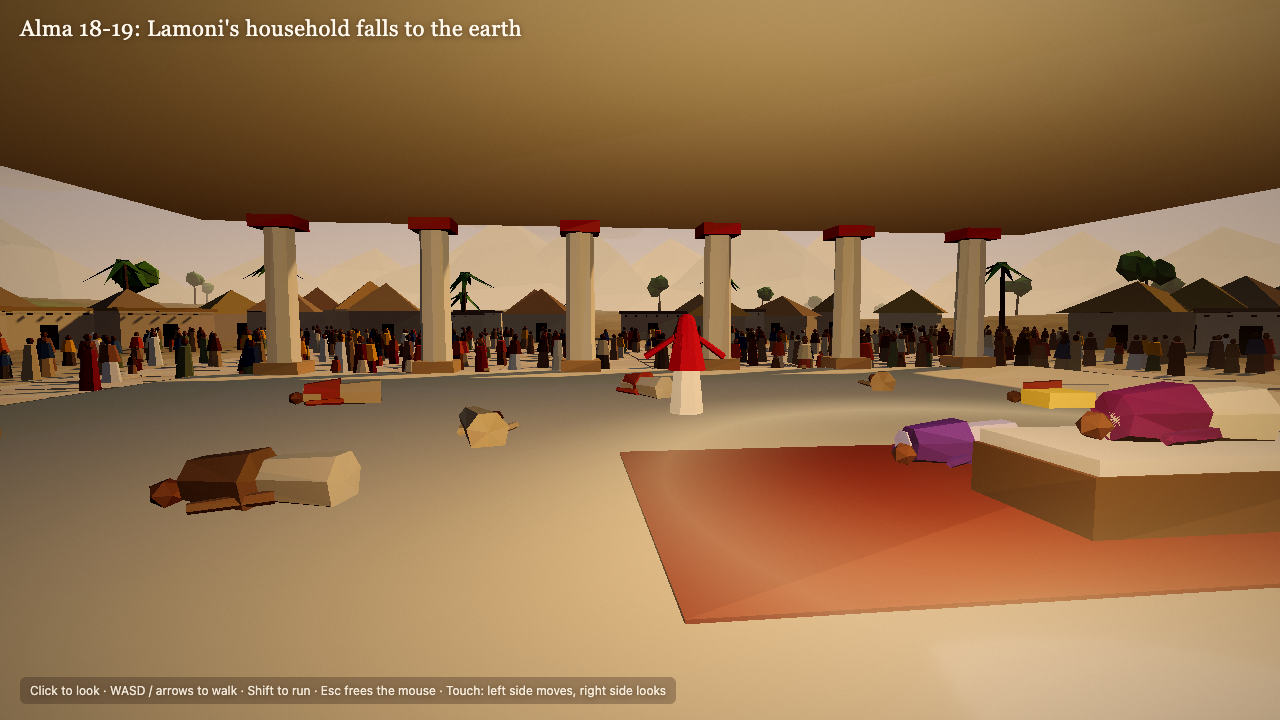
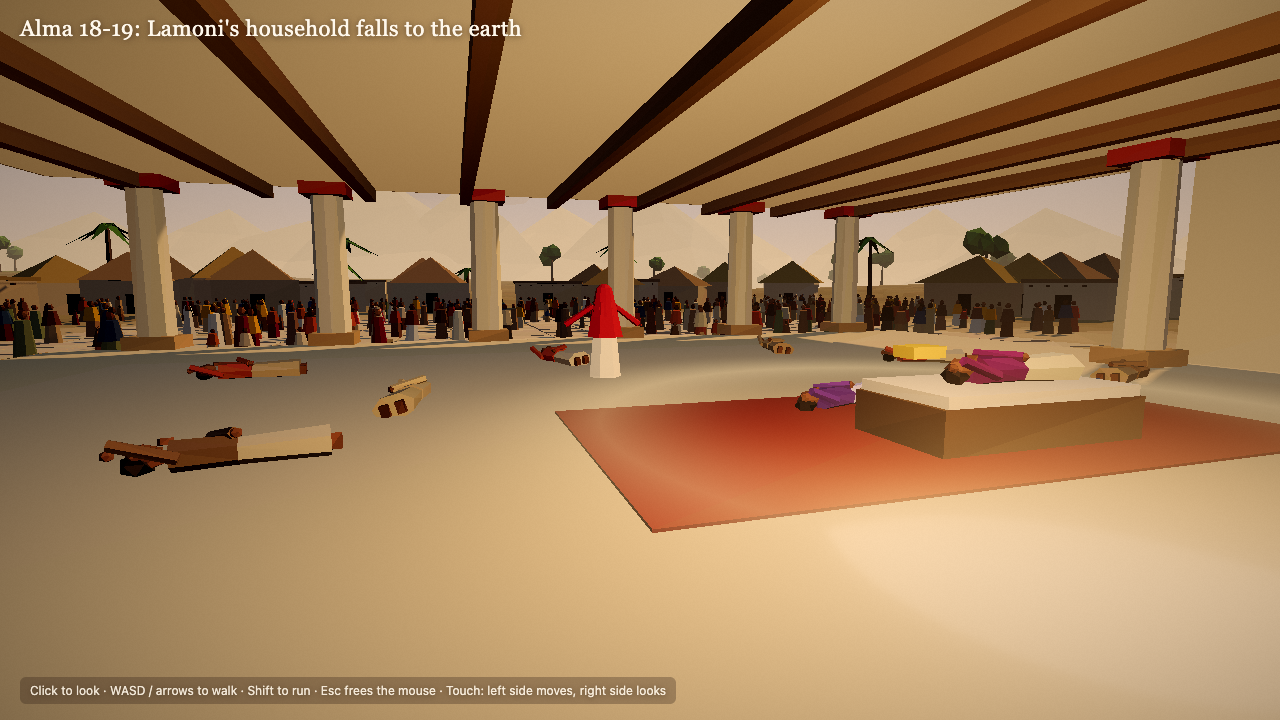
feat: polish lowpoly scenes bom-19 to bom-24

diff --git a/styles/lowpoly/scenes/lib/bom-19-kit.js b/styles/lowpoly/scenes/lib/bom-19-kit.js
@@ -33,23 +33,24 @@ function box(ctx, w, h, d, position, rot, color, { tilt = [0, 0], collide = fals
   if (collide) ctx.colliders.add({ x: position[0], z: position[2], w, d, rot, bottom: position[1] - h / 2, top: position[1] + h / 2 });
 }
 
-// A person lying on the ground, head toward local +z.
-export function sleeper(ctx, x, z, rot, { robe = '#7a4e36', skin = '#8a5a3c', mantle, scale = 1, y, side = 0 } = {}) {
-  const base = y ?? ctx.heightAt(x, z);
-  const at = frame(x, z, rot);
+// A person lying on the back, head toward local +z: robed legs with feet up, torso, head with hair, one arm under the head.
+export function sleeper(ctx, x, z, rot, { robe = '#7a4e36', skin = '#8a5a3c', mantle, scale = 1, y, side = 0, hair = '#2a1e16' } = {}) {
+  const base = (y ?? ctx.heightAt(x, z)) - 0.03;
   const s = scale;
-  const [bx, bz] = at(0, 0);
-  ctx.solid.add(new THREE.CylinderGeometry(0.17 * s, 0.27 * s, 1.3 * s, 7), { position: [bx, base + 0.2 * s, bz], rotation: [Math.PI / 2, rot, side], color: robe, shade: darkenBottom });
-  if (mantle) {
-    const [mx, mz] = at(0, 0.35 * s);
-    ctx.solid.add(new THREE.CylinderGeometry(0.21 * s, 0.3 * s, 0.6 * s, 7), { position: [mx, base + 0.22 * s, mz], rotation: [Math.PI / 2, rot, side], color: mantle, shade: darkenBottom });
-  }
-  const [hx, hz] = at(0, 0.8 * s);
-  ctx.solid.add(new THREE.IcosahedronGeometry(0.13 * s, 0), { position: [hx, base + 0.15 * s, hz], rotation: [0, rot, 0], scale: [1, 1, 1.1], color: skin });
-  for (const sd of [-1, 1]) {
-    const [ax, az] = at(sd * 0.3 * s, 0.25 * s);
-    ctx.solid.add(new THREE.CylinderGeometry(0.05 * s, 0.065 * s, 0.6 * s, 5), { position: [ax, base + 0.1 * s, az], rotation: [Math.PI / 2, rot + sd * 0.25, 0], color: mantle ?? robe });
-  }
+  const put = (geo, color, shade) => {
+    geo.rotateZ(side * 0.6).scale(s, s, s);
+    ctx.solid.add(geo, { position: [x, base, z], rotation: [0, rot, 0], color, shade });
+  };
+  put(new THREE.CylinderGeometry(0.19, 0.25, 0.8, 7).rotateX(Math.PI / 2).scale(1.1, 0.7, 1).translate(0, 0.17, -0.42), robe, darkenBottom);
+  for (const sd of [-1, 1]) put(new THREE.BoxGeometry(0.1, 0.16, 0.12).translate(sd * 0.1, 0.16, -0.86), skin);
+  put(new THREE.CylinderGeometry(0.21, 0.2, 0.5, 7).rotateX(Math.PI / 2).scale(1.2, 0.75, 1).translate(0, 0.18, 0.18), mantle ?? robe, darkenBottom);
+  put(new THREE.CylinderGeometry(0.06, 0.06, 0.06, 6).translate(0, 0.32, 0.47), skin);
+  put(new THREE.IcosahedronGeometry(0.14, 0).scale(1, 0.95, 1.1).translate(0, 0.2, 0.62), skin);
+  put(new THREE.IcosahedronGeometry(0.145, 0).scale(1.05, 0.8, 0.95).translate(0, 0.14, 0.67), hair);
+  put(new THREE.CylinderGeometry(0.055, 0.06, 0.5, 5).rotateX(Math.PI / 2 - 0.35).translate(0.24, 0.24, 0.58), mantle ?? robe);
+  put(new THREE.IcosahedronGeometry(0.055, 0).translate(0.14, 0.24, 0.84), skin);
+  put(new THREE.CylinderGeometry(0.055, 0.06, 0.48, 5).rotateZ(Math.PI / 2).rotateY(0.5).translate(-0.04, 0.33, 0.06), mantle ?? robe);
+  put(new THREE.IcosahedronGeometry(0.055, 0).translate(0.17, 0.33, -0.06), skin);
 }
 
 // Sheep, goat or cow facing local +z.
@@ -361,4 +362,68 @@ export function tufts(ctx, { x0, x1, z0, z1, count = 600, colors = ['#5a6a3a', '
       ctx.solid.add(new THREE.ConeGeometry(0.05, hh, 3), { position: [x + r.range(-0.15, 0.15), y + hh / 2 - 0.05, z + r.range(-0.15, 0.15)], rotation: [r.range(-0.4, 0.4), r() * 3, r.range(-0.4, 0.4)], color: col, jitter: 0.1 });
     }
   }
+}
+
+// Hand-held pole torch: wrapped head, flickering flame, small halo and a warm point light.
+export function torch(ctx, x, z, { y, h = 2.1, intensity = 14, distance = 11, color = '#ffa050', lean = 0.12, rot = 0 } = {}) {
+  const base = (y ?? ctx.heightAt(x, z)) + 0.55;
+  const top = frame(x, z, rot)(0, Math.sin(lean) * h);
+  ctx.solid.add(new THREE.CylinderGeometry(0.03, 0.035, h, 5), { position: [(x + top[0]) / 2, base + h / 2, (z + top[1]) / 2], rotation: [lean, rot, 0], color: '#4a3424' });
+  const ty = base + h * Math.cos(lean);
+  ctx.solid.add(new THREE.CylinderGeometry(0.08, 0.06, 0.22, 6), { position: [top[0], ty, top[1]], color: '#3a2a1c' });
+  const flame = new THREE.Mesh(new THREE.ConeGeometry(0.13, 0.42, 5).translate(0, 0.21, 0), new THREE.MeshBasicMaterial({ color: '#ffb35a', toneMapped: false }));
+  flame.position.set(top[0], ty + 0.1, top[1]);
+  ctx.scene.add(flame);
+  ctx.effects.halo({ position: [top[0], ty + 0.3, top[1]], size: 2.4, color: '#ff9a40', opacity: 0.55 });
+  const light = new THREE.PointLight(color, intensity, distance, 1.4);
+  light.position.set(top[0], ty + 0.4, top[1]);
+  ctx.scene.add(light);
+  const ph = x * 0.7 + z;
+  ctx.onFrame((t) => {
+    flame.scale.y = 0.85 + 0.25 * Math.sin(t * 11 + ph) + 0.1 * Math.sin(t * 17 + ph);
+    light.intensity = intensity * (0.88 + 0.08 * Math.sin(t * 9 + ph) + 0.04 * Math.sin(t * 21));
+  });
+  return light;
+}
+
+let puffTexture;
+function getPuffTexture() {
+  if (puffTexture) return puffTexture;
+  const size = 128;
+  const canvas = document.createElement('canvas');
+  canvas.width = canvas.height = size;
+  const g = canvas.getContext('2d');
+  const r = rng(77);
+  for (let i = 0; i < 7; i++) {
+    const cx = size / 2 + r.range(-0.18, 0.18) * size, cy = size / 2 + r.range(-0.15, 0.15) * size, rad = r.range(0.22, 0.34) * size;
+    const grad = g.createRadialGradient(cx, cy, 0, cx, cy, rad);
+    grad.addColorStop(0, 'rgba(255,255,255,0.5)');
+    grad.addColorStop(0.5, 'rgba(255,255,255,0.25)');
+    grad.addColorStop(1, 'rgba(255,255,255,0)');
+    g.fillStyle = grad;
+    g.fillRect(0, 0, size, size);
+  }
+  puffTexture = new THREE.CanvasTexture(canvas);
+  puffTexture.colorSpace = THREE.SRGBColorSpace;
+  return puffTexture;
+}
+
+// Soft billowing dust or smoke: translucent sprites that rise, swell and fade on a loop.
+export function puffs(ctx, { position, count = 10, height = 8, size = 1.5, grow = 3, color = '#d8c4a4', opacity = 0.45, wind = [0.4, 0], speed = 0.06, spread = 1.5, seed = 5 } = {}) {
+  const r = rng(seed);
+  const list = Array.from({ length: count }, (_, i) => {
+    const sprite = new THREE.Sprite(new THREE.SpriteMaterial({ map: getPuffTexture(), color, transparent: true, depthWrite: false, opacity: 0 }));
+    sprite.material.rotation = r() * 6;
+    ctx.scene.add(sprite);
+    return { sprite, off: i / count, k: r.range(0.8, 1.2), jx: r.range(-1, 1) * spread, jz: r.range(-1, 1) * spread, spin: r.range(-0.3, 0.3) };
+  });
+  ctx.onFrame((t) => {
+    for (const p of list) {
+      const f = (p.off + t * speed * p.k) % 1;
+      p.sprite.position.set(position[0] + p.jx * (1 + f) + wind[0] * f * height, position[1] + f * height, position[2] + p.jz * (1 + f) + wind[1] * f * height);
+      p.sprite.scale.setScalar(size * (1 + f * grow));
+      p.sprite.material.opacity = opacity * Math.min(1, f * 5) * (1 - f) ** 0.8;
+      p.sprite.material.rotation += p.spin * 0.01;
+    }
+  });
 }

diff --git a/styles/lowpoly/scenes/bom-19.js b/styles/lowpoly/scenes/bom-19.js
@@ -1,16 +1,18 @@
 // Mosiah 22:7-11: Limhi's people slip out through the back pass of the city wall by night,
 // with their flocks and herds, past Lamanite guards asleep with wine. -z is north, the city.
-import { sleeper, flock, tent, campfire, jar, spear, shield, house, wallLine, stars, columnGroups, rng, yawTo } from './lib/bom-19-kit.js';
+import { sleeper, flock, tent, campfire, jar, spear, shield, house, wallLine, stars, columnGroups, rng, yawTo, torch } from './lib/bom-19-kit.js';
 
 const GATE = [0, -30];
 const FIRE = [-12, -13];
 const PATH = [[0, -36], [1, -24], [7, -17], [20, -15], [38, -17], [58, -21], [80, -24], [104, -22], [130, -14], [160, -2]];
 
-const column = columnGroups(PATH, { width: 3.2, density: 1.25, spacing: 0.9, seed: 41, children: 0.25, skipNear: [[24, -15, 3], [62, -21, 3], [104, -22, 3]] });
+const TORCHES = [[3.2, -21], [14, -15.4], [24, -15.6], [40, -17.6], [62, -21.6], [104, -22.4]];
+
+const column = columnGroups(PATH, { width: 3.2, density: 1.25, spacing: 0.9, seed: 41, children: 0.25, skipNear: TORCHES.map(([x, z]) => [x, z, 1.4]) });
 const inGate = columnGroups([[0, -46], [0, -33]], { width: 2, density: 1.4, spacing: 0.9, seed: 47 });
 
 const guardPalette = {
-  robes: ['#7a3a28', '#6b4a32', '#5a3a2a', '#8a5a3a', '#4e3a2e'],
+  robes: ['#a8402a', '#b0703a', '#5a4a6a', '#8a8a5a', '#c89a5a', '#6a2a2a'],
   mantles: ['#2e2a26', '#5a2a1e', '#3e3a30'],
   skins: ['#6a4228', '#7a4c31', '#5e3a24'],
 };
@@ -19,10 +21,10 @@ export default {
   title: "Mosiah 22:7-11: Limhi's people escape",
   seed: 19,
   fov: 60,
-  exposure: 1.3,
+  exposure: 1.45,
 
-  sun: { direction: [0.45, 0.6, 0.55], color: '#b4c6f0', intensity: 2.6 },
-  light: { sky: '#6a82c4', ground: '#3a3440', hemi: 1.5 },
+  sun: { direction: [0.45, 0.6, 0.55], color: '#c4d4ff', intensity: 3.6 },
+  light: { sky: '#6a82c4', ground: '#3a3440', hemi: 1.9 },
   sky: { top: '#081028', horizon: '#2c3d68', ground: '#18203a', sunColor: '#c8d4ff', glow: 0.15 },
   fog: { color: '#22305a', near: 60, far: 460 },
   clouds: { count: 14, shadow: '#1c2440', lit: '#5a6a96', rim: '#c8d4ff', distance: [500, 1000], altitude: [160, 300], hole: 0.2 },
@@ -31,7 +33,7 @@ export default {
   grade: { saturation: 1.0, contrast: 1.08, vignette: 0.5, shadowTint: '#0e1638', highlightTint: '#e4ecff' },
   shadow: { center: [10, -5], radius: 70 },
 
-  player: { start: [-21, -1], yaw: -0.95, pitch: -0.04, eye: 1.65, speed: 4.5 },
+  player: { start: [33, -3.5], yaw: 0.98, pitch: -0.03, eye: 1.65, speed: 4.5 },
 
   terrain: {
     size: 1000,
@@ -52,9 +54,9 @@ export default {
   ],
 
   scatter: [
-    { type: 'tree', count: 60, center: [40, 40], ring: [40, 260], spacing: 7, seed: 8, avoid: [{ rect: [60, 0, 220, 40] }, { rect: [0, -60, 300, 70] }, { r: 5, x: -21, z: -1 }], props: { kind: 'broad', leaf: '#3c5230' } },
-    { type: 'rock', count: 50, center: [-10, 20], ring: [6, 60], spacing: 5, seed: 12, avoid: [{ r: 3, x: -21, z: -1 }, { rect: [60, -18, 200, 14] }], props: { size: 0.6, color: '#7a6e60' } },
-    { type: 'tree', count: 14, center: [-30, 10], ring: [10, 50], spacing: 6, seed: 14, avoid: [{ r: 5, x: -21, z: -1 }, { r: 9, x: FIRE[0], z: FIRE[1] }, { rect: [0, -40, 300, 20] }], props: { kind: 'broad', leaf: '#3c5230' } },
+    { type: 'tree', count: 60, center: [40, 40], ring: [40, 260], spacing: 7, seed: 8, avoid: [{ rect: [60, 0, 220, 40] }, { rect: [0, -60, 300, 70] }, { r: 5, x: 33, z: -3.5 }, { rect: [10, -6, 50, 22] }], props: { kind: 'broad', leaf: '#3c5230' } },
+    { type: 'rock', count: 50, center: [-10, 20], ring: [6, 60], spacing: 5, seed: 12, avoid: [{ r: 3, x: 33, z: -3.5 }, { rect: [60, -18, 200, 14] }], props: { size: 0.6, color: '#7a6e60' } },
+    { type: 'tree', count: 14, center: [-30, 10], ring: [10, 50], spacing: 6, seed: 14, avoid: [{ r: 5, x: 33, z: -3.5 }, { rect: [10, -6, 50, 22] }, { r: 9, x: FIRE[0], z: FIRE[1] }, { rect: [0, -40, 300, 20] }], props: { kind: 'broad', leaf: '#3c5230' } },
     { type: 'rock', count: 40, center: [100, -30], ring: [30, 200], spacing: 10, seed: 10, avoid: [{ rect: [70, -10, 200, 30, 0.25] }, { rect: [0, -60, 300, 70] }], props: { color: '#6a6258' } },
   ],
 
@@ -71,6 +73,7 @@ export default {
 
   figures: [
     { x: 4.5, z: -27.5, face: [30, -10], robe: '#5e4b3a', mantle: '#3f4d5e', skin: '#9b6a46', arms: 'out', hood: true },
+    ...TORCHES.map(([x, z], i) => ({ x, z, face: [x + 20, z - 1], robe: ['#a0825c', '#6e5a44', '#b59a72'][i % 3], mantle: ['#5a3d2b', '#3f4d5e', '#7d5c3e'][i % 3], skin: '#9b6a46', hood: i % 2 === 0 })),
   ],
 
   custom(ctx) {
@@ -99,6 +102,8 @@ export default {
       if (Math.hypot(x + 36, z + 118) < 26) continue;
       house(ctx, x, z, r.range(-0.3, 0.3), { w: r.range(4, 7), d: r.range(4, 6), h: r.range(2.4, 3.2), color: '#9a8466', roof: '#5a4a34', thatch: r() < 0.6 });
     }
+
+    for (const [x, z] of TORCHES) torch(ctx, x + 0.1, z + 0.38, { rot: Math.PI / 2 });
 
     campfire(ctx, FIRE[0], FIRE[1], { scale: 0.8, intensity: 55, distance: 20 });
     for (let i = 0; i < 9; i++) {

diff --git a/styles/lowpoly/scenes/bom-22.js b/styles/lowpoly/scenes/bom-22.js
@@ -1,6 +1,6 @@
 // Alma 14: in Ammonihah the believers' records were burned in the plaza. Later the Lord breaks the
 // prison walls; Alma and Amulek walk out of the rubble unharmed while the people flee. -z is north.
-import { campfire, house, jar, rng } from './lib/bom-19-kit.js';
+import { campfire, house, jar, rng, puffs } from './lib/bom-19-kit.js';
 
 const PRISON = [0, -34];
 const PIT = [-8, -23];
@@ -28,7 +28,7 @@ export default {
   grade: { saturation: 1.08, contrast: 1.08, vignette: 0.42, shadowTint: '#3a2e4e', highlightTint: '#ffe6c4' },
   shadow: { center: [0, -18], radius: 60 },
 
-  player: { start: [4, -10], yaw: 0.12, pitch: 0.06, eye: 1.65, speed: 4.5 },
+  player: { start: [-0.5, -17], yaw: 0.3, pitch: 0.0, eye: 1.65, speed: 4.5 },
 
   terrain: {
     size: 1000,
@@ -77,8 +77,8 @@ export default {
   },
 
   figures: [
-    { x: PRISON[0] - 0.9, z: PRISON[1] + 1, face: [4, -10], robe: '#e8dcc4', mantle: '#8a6a44', skin: '#a87652', arms: 'out', emissive: 0.08 },
-    { x: PRISON[0] + 0.9, z: PRISON[1] + 1.2, face: [4, -10], robe: '#d8cab0', mantle: '#5a6a7a', skin: '#9b6a46', emissive: 0.08 },
+    { x: PRISON[0] - 0.9, z: PRISON[1] + 1, face: [-0.5, -17], robe: '#e8dcc4', mantle: '#8a6a44', skin: '#a87652', arms: 'out', emissive: 0.14 },
+    { x: PRISON[0] + 0.9, z: PRISON[1] + 1.2, face: [-0.5, -17], robe: '#d8cab0', mantle: '#5a6a7a', skin: '#9b6a46', emissive: 0.14 },
   ],
 
   effects: [
@@ -89,6 +89,7 @@ export default {
   custom(ctx) {
     const r = rng(2222);
     campfire(ctx, PIT[0], PIT[1], { scale: 1.6, intensity: 30, distance: 16 });
+    puffs(ctx, { position: [PIT[0], ctx.heightAt(PIT[0], PIT[1]) + 1.6, PIT[1]], count: 14, height: 9, size: 1.8, grow: 3, color: '#6a625c', opacity: 0.9, wind: [0.5, -0.3], speed: 0.05, spread: 0.6, seed: 2201 });
     for (let i = 0; i < 26; i++) {
       const a = r() * Math.PI * 2, d = r.range(0.8, 3);
       const x = PIT[0] + Math.cos(a) * d, z = PIT[1] + Math.sin(a) * d;
@@ -100,7 +101,7 @@ export default {
     }
 
     for (const [x, z, s] of [[-7, -38, 1.1], [7, -39, 1.2], [-11, -32, 0.8], [11, -33, 0.9]]) {
-      ctx.effects.smoke({ position: [x, ctx.heightAt(x, z) + 0.5, z], count: 3, height: 9, size: s, color: '#c8b090', wind: [0.4, -0.2], seed: Math.floor(r() * 1e6) });
+      puffs(ctx, { position: [x, ctx.heightAt(x, z) + 0.6, z], count: 9, height: 8, size: 2.2 * s, grow: 2.6, color: '#e2cfae', opacity: 0.4, wind: [0.4, -0.2], speed: 0.05, spread: 1.8, seed: Math.floor(r() * 1e6) });
     }
 
     const ring = [];

diff --git a/styles/lowpoly/scenes/bom-20.js b/styles/lowpoly/scenes/bom-20.js
@@ -10,7 +10,7 @@ const ALMA = [-3, -24];
 const column = columnGroups(PATH, { width: 4, density: 1.6, spacing: 0.9, seed: 52, children: 0.28, skipNear: [[ALMA[0], ALMA[1], 1.5], [4, -46, 3], [8, -76, 3], [5, -110, 3]] });
 
 const guardPalette = {
-  robes: ['#7a3a28', '#6b4a32', '#5a3a2a', '#8a5a3a', '#4e3a2e'],
+  robes: ['#a8402a', '#b0703a', '#5a4a6a', '#8a8a5a', '#c89a5a', '#6a2a2a'],
   mantles: ['#2e2a26', '#5a2a1e', '#3e3a30', '#9a6a2a'],
   skins: ['#6a4228', '#7a4c31', '#5e3a24'],
 };
@@ -19,10 +19,10 @@ export default {
   title: "Mosiah 24:13-25: Alma's people made free",
   seed: 20,
   fov: 60,
-  exposure: 1.0,
+  exposure: 1.15,
 
   sun: { direction: [0.42, 0.22, -0.86], color: '#ffb87a', intensity: 3.0 },
-  light: { sky: '#a8b4e0', ground: '#7a6050', hemi: 1.5 },
+  light: { sky: '#b8c0e8', ground: '#9a7a5a', hemi: 1.9 },
   sky: { top: '#4b5d92', horizon: '#ffb88e', ground: '#d0a088', sunColor: '#ffd6a0', glow: 1.5 },
   fog: { color: '#d9ab94', near: 70, far: 520 },
   clouds: { count: 18, shadow: '#8a7a98', lit: '#ffb09a', rim: '#fff0d0', distance: [300, 900], altitude: [140, 280], hole: 0.25 },
@@ -31,7 +31,7 @@ export default {
   grade: { saturation: 1.12, contrast: 1.06, vignette: 0.4, shadowTint: '#3a2e60', highlightTint: '#ffe2c0' },
   shadow: { center: [-5, -15], radius: 70 },
 
-  player: { start: [13, -2], yaw: 0.36, pitch: 0.0, eye: 1.65, speed: 4.5 },
+  player: { start: [12.5, -5.5], yaw: 0.66, pitch: -0.1, eye: 1.65, speed: 4.5 },
 
   terrain: {
     size: 1000,
@@ -49,7 +49,7 @@ export default {
 
   scatter: [
     { type: 'tree', count: 70, center: [0, -40], ring: [55, 260], spacing: 8, seed: 8, avoid: [{ rect: [3, -120, 30, 220] }], props: { kind: 'broad', leaf: '#5a7038' } },
-    { type: 'tree', count: 10, center: [-40, 20], ring: [8, 40], spacing: 8, seed: 18, avoid: [{ r: 12, x: CAMP[0], z: CAMP[1] }, { r: 6, x: 13, z: 3 }], props: { kind: 'palm', leaf: '#5f7a3a' } },
+    { type: 'tree', count: 10, center: [-40, 20], ring: [8, 40], spacing: 8, seed: 18, avoid: [{ r: 12, x: CAMP[0], z: CAMP[1] }, { r: 6, x: 12.5, z: -5.5 }], props: { kind: 'palm', leaf: '#5f7a3a' } },
     { type: 'rock', count: 30, center: [0, -60], ring: [40, 220], spacing: 12, seed: 10, avoid: [{ rect: [3, -120, 30, 220] }], props: {} },
   ],
 

diff --git a/styles/lowpoly/scenes/bom-21.js b/styles/lowpoly/scenes/bom-21.js
@@ -23,7 +23,7 @@ export default {
   grade: { saturation: 1.05, contrast: 1.1, vignette: 0.48, shadowTint: '#28264a', highlightTint: '#fff0d6' },
   shadow: { center: [0, -10], radius: 60 },
 
-  player: { start: [2.5, 2], yaw: 0.06, pitch: 0.12, eye: 1.65, speed: 4.5 },
+  player: { start: [3.5, -1.5], yaw: 0.16, pitch: 0.1, eye: 1.65, speed: 4.5 },
 
   terrain: {
     size: 1000,
@@ -57,14 +57,13 @@ export default {
 
   figures: [
     {
-      x: ANGEL[0], z: ANGEL[1], y: 3.3, face: [0, 10], scale: 1.4, robe: '#fbf8f0', mantle: '#f4eedf', skin: '#cdb59a', arms: 'out', emissive: 0.18,
-      light: { color: '#fff2d6', intensity: 30, distance: 30 },
-      halo: { size: 4.5, opacity: 0.3, color: '#fff3d6' },
+      x: ANGEL[0], z: ANGEL[1], y: 3.3, face: [0, 10], scale: 1.4, robe: '#fbf8f0', mantle: '#f4eedf', skin: '#cdb59a', arms: 'out', emissive: 0.1,
+      halo: { size: 6, opacity: 0.18, color: '#fff3d6' },
     },
   ],
 
   effects: [
-    { type: 'beam', at: ANGEL, height: 200, radiusBottom: 3.5, radiusTop: 12, color: '#fff1cf', opacity: 0.28 },
+    { type: 'beam', at: ANGEL, height: 200, radiusBottom: 3.5, radiusTop: 12, color: '#fff1cf', opacity: 0.18 },
     { type: 'motes', at: ANGEL, radius: 5, height: 22, count: 160 },
     { type: 'ring', at: [0, -11], lift: 0.06, radius: 5, width: 1.8, color: '#ffe8b8', opacity: 0.35 },
     { type: 'sunShafts', center: [0, -60], count: 5, spread: 40, length: 400, width: [8, 18], opacity: 0.06 },
@@ -79,6 +78,9 @@ export default {
       ctx.solid.add(new ctx.THREE.CylinderGeometry(0.03, 0.035, 1.6, 4), { position: [x, ctx.heightAt(x, z) + 0.05, z], rotation: [Math.PI / 2, r() * 6, 0], color: '#5a4030' });
     }
 
+    const glow = new ctx.THREE.PointLight('#fff2d6', 40, 26, 1.4);
+    glow.position.set(ANGEL[0], 2.4, ANGEL[1] + 7);
+    ctx.scene.add(glow);
     cloud(ctx, ANGEL[0], 2.9, ANGEL[1], 2.0, { color: '#f4f0e8', emissive: 0.15, puffs: 10, seed: 5, flat: 0.3 });
     cloud(ctx, ANGEL[0] + 1.5, 1.8, ANGEL[1] - 1.5, 2.4, { color: '#ece6da', emissive: 0.1, puffs: 8, seed: 6, flat: 0.4 });
     cloud(ctx, ANGEL[0], 42, ANGEL[1] - 16, 9, { color: '#e8e2d8', emissive: 0.3, puffs: 10, seed: 7, flat: 0.4 });

diff --git a/styles/lowpoly/scenes/bom-24.js b/styles/lowpoly/scenes/bom-24.js
@@ -22,7 +22,7 @@ export default {
   grade: { saturation: 1.1, contrast: 1.07, vignette: 0.42, shadowTint: '#32285a', highlightTint: '#ffe6c4' },
   shadow: { center: [0, -8], radius: 50 },
 
-  player: { start: [2.6, -28.6], yaw: Math.PI - 0.12, pitch: -0.07, eye: 1.65, speed: 4 },
+  player: { start: [3.2, -29.2], yaw: Math.PI - 0.3, pitch: -0.12, eye: 1.65, speed: 4 },
 
   terrain: {
     size: 1000,
@@ -97,6 +97,10 @@ export default {
     ctx.solid.box(27, 0.5, 22.4, { position: [0, top + H + 0.25, -20], color: '#f0e0c0' });
     ctx.solid.box(27.6, 0.7, 23, { position: [0, top + H + 0.85, -20], color: paint, shade });
     ctx.solid.box(24, 0.6, 19, { position: [0, top + H + 1.5, -20], color: '#c8b08a', shade });
+    const ceiling = new ctx.THREE.Mesh(new ctx.THREE.PlaneGeometry(26.8, 22.2).rotateX(Math.PI / 2), new ctx.THREE.MeshLambertMaterial({ color: '#e8d6b4', emissive: '#7a6448', flatShading: true }));
+    ceiling.position.set(0, top + H - 0.01, -20);
+    ctx.scene.add(ceiling);
+    for (let i = 0; i < 9; i++) ctx.solid.box(0.32, 0.36, 22, { position: [-11 + i * 2.75, top + H - 0.18, -20], color: '#8a6440', jitter: 0.03 });
     for (let i = 0; i < 9; i++) ctx.solid.box(1.2, 0.5, 0.3, { position: [-10 + i * 2.5, top + H + 2, -10.4], color: '#e0cca8', shade });
 
     const floor = top + 0.02;

diff --git a/styles/lowpoly/scenes/bom-23.js b/styles/lowpoly/scenes/bom-23.js
@@ -35,7 +35,7 @@ export default {
   grade: { saturation: 1.12, contrast: 1.06, vignette: 0.35, shadowTint: '#2a3a5a', highlightTint: '#fff4e0' },
   shadow: { center: [2, -24], radius: 60 },
 
-  player: { start: [-2, 4], yaw: 0.08, pitch: 0.03, eye: 1.65, speed: 4.5 },
+  player: { start: [7.5, 1], yaw: 0.1, pitch: 0.03, eye: 1.65, speed: 4.5 },
 
   terrain: {
     size: 1000,
@@ -88,6 +88,17 @@ export default {
   custom(ctx) {
     const r = rng(2323);
     water(ctx, { x: 10, z: -20, w: 70, d: 34, y: -0.55, color: '#3f8a9a', amp: 0.05 });
+    for (let z = -37; z <= -3; z++) {
+      let run = null;
+      for (let x = -25; x <= 46; x++) {
+        const wet = ctx.heightAt(x, z) < -0.3;
+        if (wet && run === null) run = x;
+        if ((!wet || x === 46) && run !== null) {
+          ctx.colliders.add({ x: (run + x - 1) / 2, z, w: x - run + 1, d: 1.2, top: 4 });
+          run = null;
+        }
+      }
+    }
 
     for (const [x, z] of raiderPoints) {
       const y = ctx.heightAt(x, z), side = r() < 0.5 ? -1 : 1;
